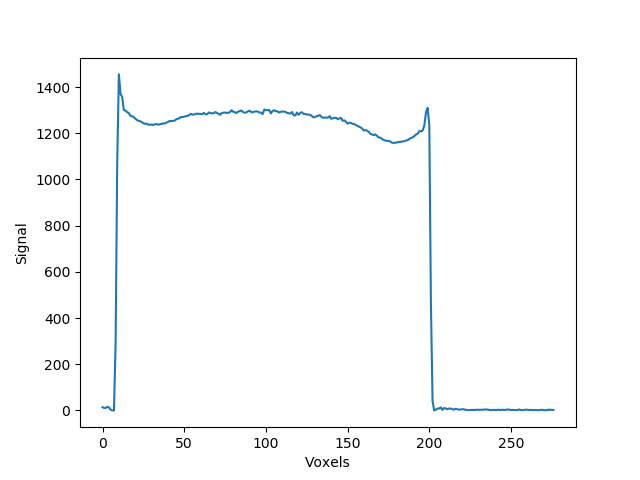
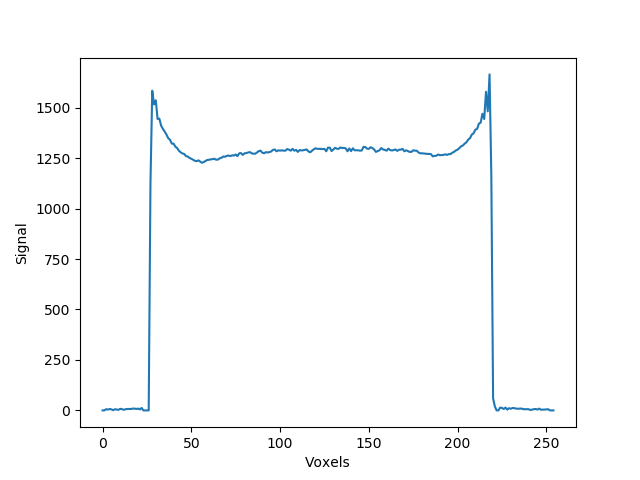
Week 2. Day 3 Commit.

diff --git a/BasicImageTest.py b/BasicImageTest.py
@@ -6,10 +6,10 @@ from skimage import filters, segmentation
 from skimage.morphology import binary_erosion
 from scipy import ndimage
 
-directpath = "data_to_get_started/single_slice_dicom/"
+directpath = "data_to_get_started/single_slice_dicom/"  # path to DICOM file
 filename = "image1"
 path = "{0}{1}".format(directpath, filename)
-ds, imdata, dims = dicom_read_and_write(path)
+ds, imdata, dims = dicom_read_and_write(path)  # function from DICOM_test.py
 
 # display image
 plt.figure()
@@ -19,12 +19,13 @@ plt.axis('off')
 plt.savefig(path + '.png')
 plt.show()
 
-# draw line profile
-src = (200, 200)  # starting point
-dst = (5, 5)  # finish point
+# draw line profile across centre line of phantom
+src = (dims[0]/2, 0+1)  # starting point
+dst = (dims[0]/2, dims[1]-1)  # finish point
 linewidth = 2  # width of the line (mean taken over width)
-output = profile_line(imdata, src, dst)
+output = profile_line(imdata, src, dst)  # voxel values along specified line
 
+# plot profile line output vs. voxel sampled
 plt.figure()
 plt.plot(output)
 plt.xlabel('Voxels')
@@ -57,6 +58,7 @@ perp_cols = np.array([np.linspace(col_i - col_width, col_i + col_width,
 improfile = np.copy(imdata)
 improfile[np.array(np.round(perp_rows), dtype=int), np.array(np.round(perp_cols), dtype=int)] = 0
 
+# plot sampled line on phantom to visualise where output comes from
 plt.figure()
 plt.imshow(improfile, cmap='bone')
 plt.colorbar()
@@ -64,12 +66,11 @@ plt.axis('off')
 plt.savefig(path + '_line_profile.png')
 plt.show()
 
-# UNIFORMITY MEASURE
-# OTSU THRESHOLD
-val = filters.threshold_otsu(imdata)
-mask = imdata > val
+# UNIFORMITY MEASUREMENT
+val = filters.threshold_otsu(imdata)  # OTSU threshold to segment phantom
+mask = imdata > val  # phantom mask
 
-phantom_edges = segmentation.find_boundaries(mask, mode='thin').astype(np.uint8)
+phantom_edges = segmentation.find_boundaries(mask, mode='thin').astype(np.uint8)  # finds outline of mask
 
 plt.figure()
 plt.subplot(131)
@@ -88,58 +89,65 @@ plt.tight_layout()
 plt.savefig(path + '_otsu_boundary_mask.png')
 plt.show()
 
-# LABEL OTSU
-label_img, num = label(mask, connectivity=imdata.ndim, return_num=True)
-# regionprops
-props = regionprops(label_img)
-area100 = props[0].area
+label_img, num = label(mask, connectivity=imdata.ndim, return_num=True)  # labels the mask
+props = regionprops(label_img)  # returns region properties for phantom mask ROI
+area100 = props[0].area  # area of phantom mask
 area80 = area100*0.8  # desired phantom area = 80% of phantom area [IPEM Report 112]
 
-ROIerode = []
-first_mask = np.copy(mask)
-old_mask_area = np.sum(first_mask)
+ROIerode = []  # initialise variable for eroded ROI (80% ROI)
+temp_mask = np.copy(mask)  # copy of phantom mask
+old_mask_area = np.sum(temp_mask)  # 100% area
 
-new_mask_area = old_mask_area
-count = 0
-while new_mask_area > area80:
-    count = count + 1
-    print(count) # number of iterations to reduce mask to desired 80% area
-    shrunk_mask = binary_erosion(first_mask)
+new_mask_area = old_mask_area  # initialise new_mask_area to be updated in while loop
+count = 0  # initialise counter for while loop
+while new_mask_area > area80:  # whilst the area is greater than 80% of original area continue eroding mask
+    count = count + 1  # counter
+    shrunk_mask = binary_erosion(temp_mask)
     unraveled_mask = np.ravel(shrunk_mask)
     new_mask_area = np.sum(unraveled_mask)
-    first_mask = np.reshape(unraveled_mask, dims)
+    temp_mask = np.reshape(unraveled_mask, dims)
 
-print(new_mask_area/old_mask_area)
-ROIerode = first_mask
+print('No. of iterations = ', count)  # number of iterations to reduce mask to desired 80% area
+print('Updated area is ', round((new_mask_area/old_mask_area)*100, 2), '% of original phantom mask')
+ROIerode = temp_mask  # eroded mask from while loop
 
 plt.figure()
 plt.subplot(121)
 plt.imshow(mask)
+plt.axis('off')
 plt.subplot(122)
 plt.imshow(mask*~ROIerode)
+plt.axis('off')
 plt.savefig(path + '_eroded_mask.png')
 plt.show()
 
-### APPLY LOW PASS FILTER TO REDUCE EFFECTS OF NOISE - this might not actually be necessary... since SNR is high
+# LOW PASS FILTER APPLIED TO REDUCE EFFECTS OF NOISE
+# this might not actually be necessary... since SNR is high
+# specified as pre-processing step in IPEM Report 112
 
-a = imdata.copy()
-k = (1/16)*np.array([[1, 2, 1], [2, 4, 2], [1, 2, 1]])
-imdata_conv = ndimage.convolve(a, k, mode='constant', cval=0.0)
+a = imdata.copy()  # copy of DICOM image
+k = (1/16)*np.array([[1, 2, 1], [2, 4, 2], [1, 2, 1]])  # kernel
+imdata_conv = ndimage.convolve(a, k, mode='constant', cval=0.0)  # convolution of image and kernel
 
+# display image and filtered image (normalised)
 plt.figure()
 plt.subplot(121)
 plt.imshow(imdata/np.max(imdata), cmap='bone')
+plt.title('Original Image')
+plt.axis('off')
 plt.subplot(122)
 plt.imshow(imdata_conv/np.max(imdata_conv), cmap='bone')
+plt.title('Low Pass Filtered Image')
+plt.axis('off')
 plt.savefig(path + '_convolution.png')
 plt.show()
 
-mask_uniformity = ROIerode
-RoiVoxelVals1 = []
-RoiVoxelVals2 = []
+mask_uniformity = ROIerode  # mask for measuring uniformity is the eroded mask
+RoiVoxelVals1 = []  # initialise variable for voxel vals from filtered image data
+RoiVoxelVals2 = []  # initialise variable for voxel vals from direct image data
 for i in np.linspace(0, dims[0]-1, dims[0], dtype=int):
     for j in np.linspace(0, dims[1]-1, dims[1], dtype=int):
-        if mask_uniformity[i, j] == 1:
+        if mask_uniformity[i, j] == 1:  # 80% area mask
             save_value1 = imdata_conv[i, j]  # for uniformity calculation
             save_value2 = imdata[i, j]  # for SNR calculation
             RoiVoxelVals1 = np.append(RoiVoxelVals1, save_value1)
@@ -155,7 +163,9 @@ print('Non-Uniformity Measure, N = ', non_uniformity_measure.__round__(2), '%')
 
 # GREYSCALE UNIFORMITY MAP
 mean_pixel_value = np.mean(RoiVoxelVals1)
-GUM = np.zeros(dims)
+GUM = np.zeros(dims)  # Greyscale Uniformity Map
+# assign each voxel according to its intensity relative to the mean pixel value
+# outlined in IPEM Report 112
 for i in np.linspace(0, dims[0]-1, dims[0], dtype=int):
     for j in np.linspace(0, dims[1]-1, dims[1], dtype=int):
         if mask[i, j] == 1:
@@ -175,6 +185,7 @@ for i in np.linspace(0, dims[0]-1, dims[0], dtype=int):
             if imdata_conv[i, j] < (0.8 * mean_pixel_value):
                 GUM[i, j] = 0
 
+# Display GUM
 plt.figure()
 plt.imshow(GUM, cmap='gray')
 cbar = plt.colorbar(ticks=[0, 0.25, 0.5, 0.75, 1])
@@ -185,60 +196,64 @@ plt.title('Greyscale Uniformity Map; scaled relative to mean pixel value')
 plt.savefig(path + '_GUM.png')
 plt.show()
 
-
 # SNR measure
-factor = 0.66  # for single element coil, background noise follows Rayleigh distribution
-mean_phantom = np.mean(RoiVoxelVals2)
+factor = 0.66  # for single element coil, background noise follows Rayleigh distribution IPEM Report 112
+mean_phantom = np.mean(RoiVoxelVals2)  # mean signal from image data (not filtered!)
 
-# background ROI samples
-bground_ROI = mask*0
-idx = np.where(mask)
+# auto detection of 4 x background ROI samples (one in each corner of background)
+bground_ROI = mask*0  # initialise image matrix
+idx = np.where(mask)  # returns indices where the phantom exists (from Otsu threshold)
 rows = idx[0]
 cols = idx[1]
-min_row = np.min(rows)
-max_row = np.max(rows)
+min_row = np.min(rows)  # first row of phantom
+max_row = np.max(rows)  # last row of phantom
 
-min_col_bool = np.isin(rows, min_row)
-min_col_idx = np.where(min_col_bool)
+min_col = np.min(cols)  # first column of phantom
+max_col = np.max(cols)  # last column of phantom
 
-min_col = cols[0]
-max_col = cols[-1]
+half_col = int(dims[1]/2)  # half-way column
 
-half_col = int(dims[1]/2)
-
-bROI1 = bground_ROI.copy()
+bROI1 = bground_ROI.copy()  # initialise image matrix for each corner ROI
 bROI2 = bground_ROI.copy()
 bROI3 = bground_ROI.copy()
 bROI4 = bground_ROI.copy()
 
-bROI1[0:min_row, 0:half_col] = 1
+bROI1[0:min_row, 0:half_col] = 1  # assign each "corner" ROI
 bROI2[0:min_row, half_col:dims[1]] = 1
 bROI3[max_row:dims[0], 0:half_col] = 1
 bROI4[max_row:dims[0], half_col:dims[1]] = 1
 
 # https://github.com/aaronfowles/breast_mri_qa/blob/master/breast_mri_qa/measure.py
 ROIs = [bROI1, bROI2, bROI3, bROI4]
-ROIs_new = ROIs.copy()
-var = 0
-for qq in ROIs:
-    region = qq
+# erode each corner ROI to 5% of area of phantom ROI so total bground ROI is = 20% of signal ROI
+# this is a completely arbitrary choice!
+for region in ROIs:
     region_area = np.sum(region)
-    roi_proportion = 0.25
-    target_roi_area = roi_proportion * region_area
+    roi_proportion = 0.05  # 5%
+    #target_roi_area = roi_proportion * region_area  # based on corner ROI area
+    target_roi_area = roi_proportion * new_mask_area  # based on phantom ROI area
     actual_roi_proportion = 1
-    roi = region.copy()
+    roi = region.copy()  # this is eroded variable in while loop
     while actual_roi_proportion > roi_proportion:
         roi = ndimage.binary_erosion(roi).astype(int)
-        actual_roi_proportion = np.sum(roi) / float(region_area)
-    ROIs_new[var] = roi
-    bground_ROI = bground_ROI + roi
-    var = var + 1
+        #actual_roi_proportion = np.sum(roi) / float(region_area)  # based on corner ROI area
+        actual_roi_proportion = np.sum(roi) / float(new_mask_area)  # based on phantom ROI area
+    bground_ROI = bground_ROI + roi  # append each updated corner ROI
 
+# display background noise ROI and signal ROI for SNR calculation
 plt.figure()
-plt.imshow(bground_ROI+mask_uniformity+mask)
+plt.subplot(121)
+plt.imshow(bground_ROI)
+plt.title('Background (Noise) ROI')
+plt.axis('off')
+plt.subplot(122)
+plt.imshow(mask_uniformity)
+plt.title('Signal ROI')
+plt.axis('off')
 plt.savefig(path + '_SNR_masks.png')
 plt.show()
 
+# background/noise voxel values
 BGrndVoxelVals = []
 for i in np.linspace(0, dims[0]-1, dims[0], dtype=int):
     for j in np.linspace(0, dims[1]-1, dims[1], dtype=int):
@@ -246,16 +261,40 @@ for i in np.linspace(0, dims[0]-1, dims[0], dtype=int):
             save_value = imdata[i, j]
             BGrndVoxelVals = np.append(BGrndVoxelVals, save_value)
 
-stdev_background = np.std(BGrndVoxelVals)
-print(BGrndVoxelVals.shape)
+stdev_background = np.std(BGrndVoxelVals)  # noise = standard deviation of background voxel values
 
+b_ground_samples = np.shape(BGrndVoxelVals)
+b_ground_samples = b_ground_samples[0]
+signal_samples = np.shape(RoiVoxelVals2)
+signal_samples = signal_samples[0]
+# check what % of signal ROI that background ROI is - should be approx 20%
+print('Background ROI size is ', round((b_ground_samples/signal_samples)*100, 2), '% of signal ROI size.')
+
+noise_mask = ndimage.binary_dilation(mask, iterations=2)  # dilate mask to avoid edge effects when displaying noise
+noise_image = imdata*~noise_mask  #image noise (phantom signal is masked out)
+ALLBGrndVoxelVals = noise_image[noise_mask == 0]  # voxel values from all of background
+
+# display noise image
 plt.figure()
-plt.hist(BGrndVoxelVals)
+plt.imshow(noise_image, cmap='gray')
+plt.axis('off')
+plt.savefig(path + '_noise_image.png')
+plt.show()
+
+# histogram of noise to check that is follows non-Gaussian distribution
+plt.figure()
+plt.hist(ALLBGrndVoxelVals)
 plt.xlabel('Pixel Intensity')
 plt.ylabel('Number of Pixels')
+plt.suptitle('Histogram of Background Noise')
+plt.title('Demonstration of Non-Gaussian Distribution')
 plt.savefig(path + '_noise_histogram.png')
 plt.show()
 
+# SNR calculation
 SNR_background = (factor * mean_phantom)/stdev_background
 print('SNR = ', SNR_background.round(2))
+
+
+# END
 
